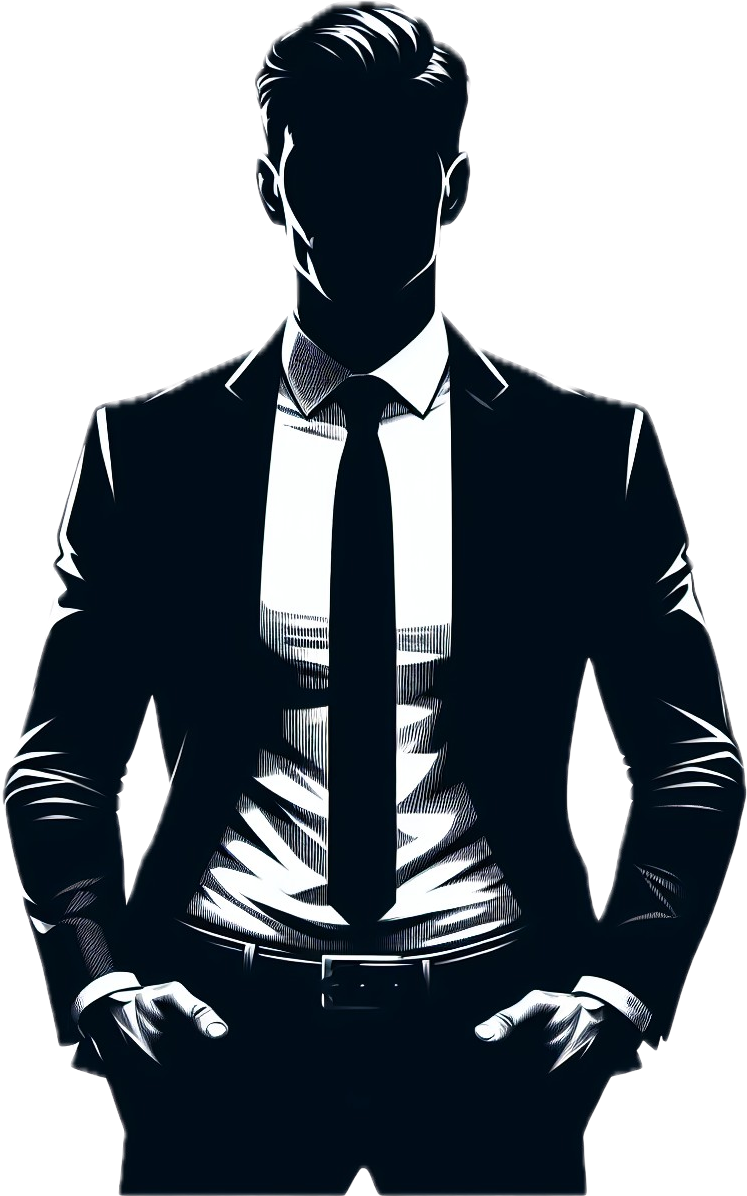
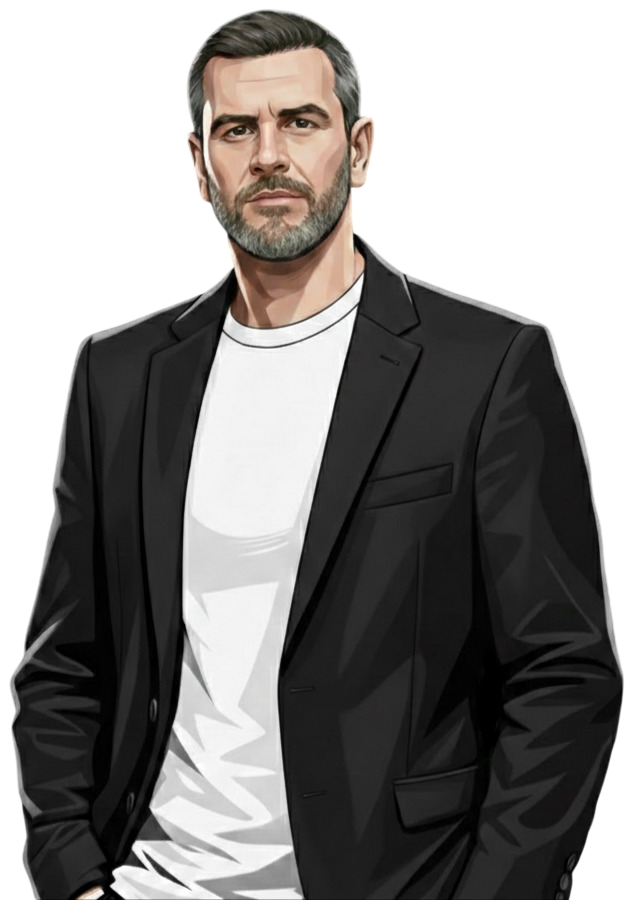
new image & cursor pointer for interactive elements (#21)

diff --git a/src/app/_components/sections/HomeSection/HomeSection.tsx b/src/app/_components/sections/HomeSection/HomeSection.tsx
@@ -3,13 +3,9 @@
 import Image from 'next/image';
 import HomeContacts from '@/app/_components/HomeContacts/HomeContacts';
 import silhouette from '../../../../../public/images/silhouette.png';
-import silhouetteDark from '../../../../../public/images/silhouette-dark.png';
 import Titles from '@/app/_components/Title/Titles';
-import { useTheme } from '@/app/context/ThemeContext';
 
 export default function HomeSection() {
-    const { theme } = useTheme();
-    const image = theme === 'light' ? silhouette : silhouetteDark;
     return (
         <div className='flex flex-col place-content-center flex-wrap md:flex-row lg:pt-11 md:pt-0 pt-32 gap-1'>
             <div className='flex flex-col self-center flex-1'>
@@ -23,7 +19,7 @@ export default function HomeSection() {
             </div>
             <div className='flex-1 mt-7 md:mt-0'>
                 <Image
-                    src={image}
+                    src={silhouette}
                     alt=''
                     sizes='(max-width: 747px) 100vw, 600px'
                     width={600}

diff --git a/src/app/_components/SocialLink/SocialLink.tsx b/src/app/_components/SocialLink/SocialLink.tsx
@@ -23,7 +23,7 @@ export default function SocialLink({
         <Link
             target='_blank'
             href={href}
-            className={`inline-flex p-4 rounded-full ${styles.link} ${isBordered ? '' : styles['no-border']}`}
+            className={`inline-flex cursor-pointer p-4 rounded-full ${styles.link} ${isBordered ? '' : styles['no-border']}`}
             title={title}
             onFocus={onFocus}
             onBlur={onBlur}

diff --git a/src/app/_components/Button/Button.tsx b/src/app/_components/Button/Button.tsx
@@ -18,7 +18,7 @@ export default function Button({
     onMouseLeave,
     onclick,
 }: IButtonProps) {
-    const buttonClasses = `flex justify-center text-base font-bold px-5 py-4 rounded-full ${styles.button}`;
+    const buttonClasses = `flex justify-center text-base font-bold px-5 py-4 rounded-full cursor-pointer ${styles.button}`;
 
     return (
         <button
